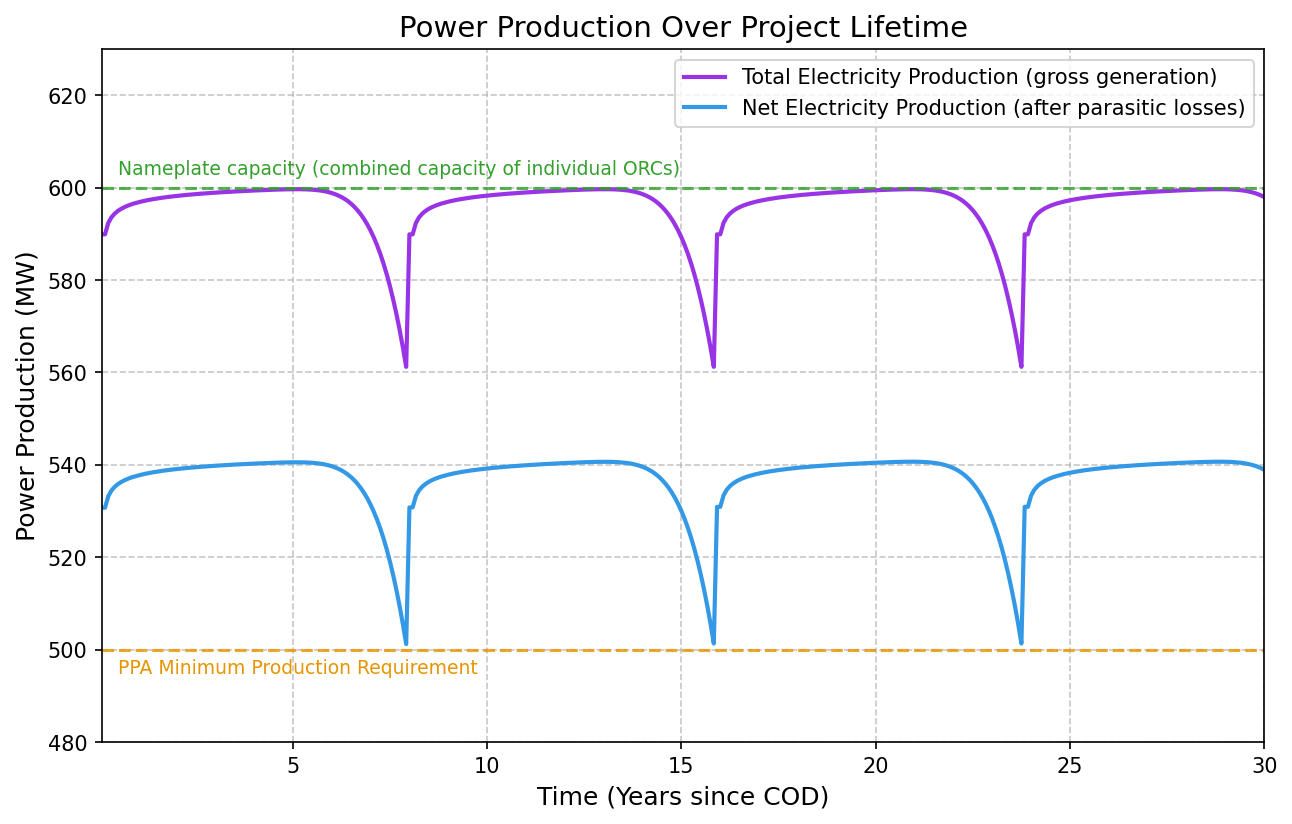
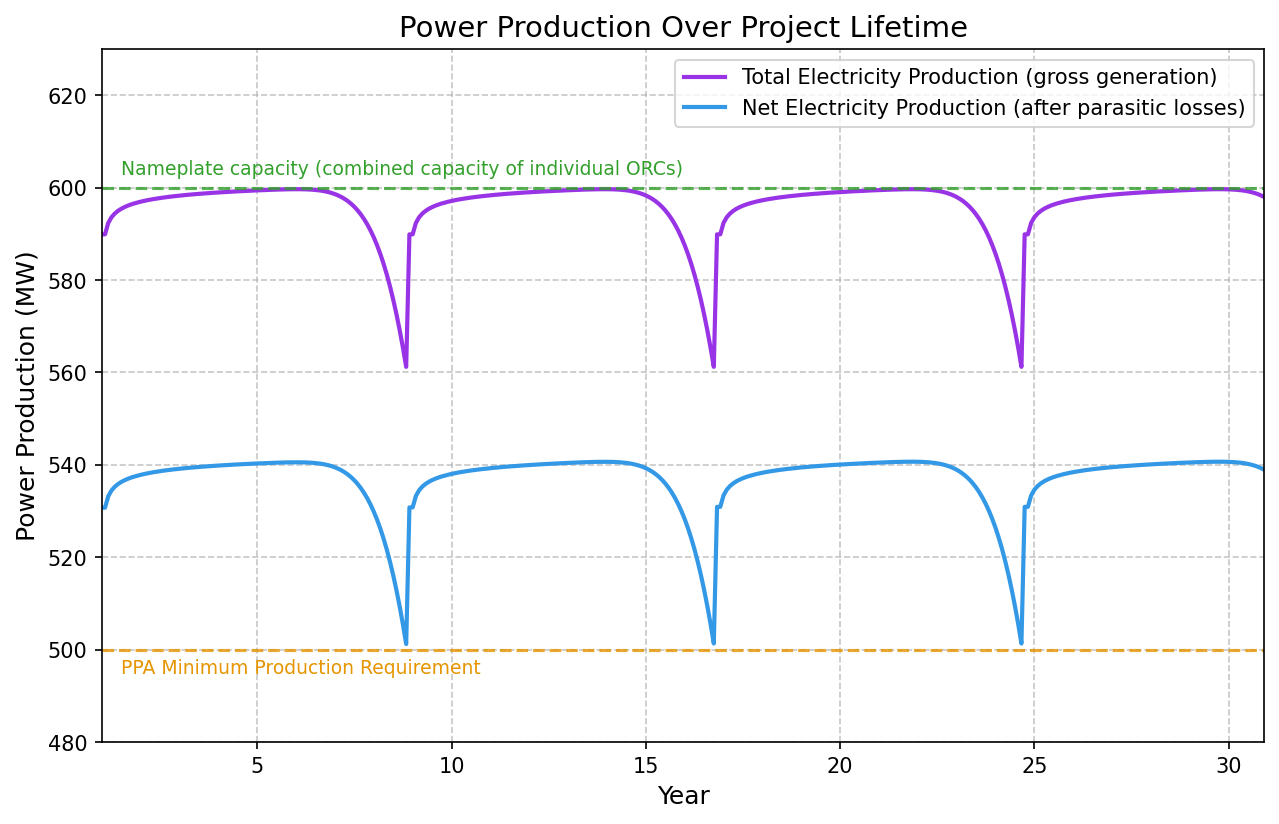
align graph year indexing with cash flow: COD = Year 1

diff --git a/src/geophires_docs/generate_fervo_project_cape_5_graphs.py b/src/geophires_docs/generate_fervo_project_cape_5_graphs.py
@@ -63,7 +63,7 @@ def _get_redrilling_event_indexes(
 
     :param threshold_degc: Temperature increase threshold to detect redrilling (default 1.0°C)
 
-    :return: List of year indexes (0-based, from COD) where redrilling events occur
+    :return: List of cash flow year indexes where redrilling events occur (COD = Year 1)
     """
     temperatures_celsius: list[float] = [
         it.to('degC').magnitude for it in _get_full_production_temperature_profile(input_and_result)
@@ -75,8 +75,8 @@ def _get_redrilling_event_indexes(
     for i in range(1, len(temperatures_celsius)):
         temp_increase = temperatures_celsius[i] - temperatures_celsius[i - 1]
         if temp_increase > threshold_degc:
-            # Convert datapoint index to year index
-            year_index = i // time_steps_per_year
+            # Convert datapoint index to cash flow year index (COD = Year 1)
+            year_index = (i // time_steps_per_year) + 1
             redrilling_indexes.append(year_index)
 
     return redrilling_indexes
@@ -103,8 +103,8 @@ def generate_power_production_graph(
     total_power = np.array([p.magnitude for p in total_generation_profile])
 
     # Generate time values: each datapoint represents 1/time_steps_per_year of a year
-    # Starting from year 1 (first operational year)
-    years = np.array([(i + 1) / time_steps_per_year for i in range(len(profile))])
+    # Cash flow year convention: COD = Year 1, so first datapoint is at year 1
+    years = np.array([1 + i / time_steps_per_year for i in range(len(profile))])
 
     # Create the figure
     fig, ax = plt.subplots(figsize=(10, 6))
@@ -114,7 +114,7 @@ def generate_power_production_graph(
     ax.plot(years, net_power, color='#3399e6', linewidth=2, label='Net Electricity Production (after parasitic losses)')
 
     # Set labels and title
-    ax.set_xlabel('Time (Years since COD)', fontsize=12)
+    ax.set_xlabel('Year', fontsize=12)
     ax.set_ylabel('Power Production (MW)', fontsize=12)
     ax.set_title('Power Production Over Project Lifetime', fontsize=14)
 
@@ -123,8 +123,7 @@ def generate_power_production_graph(
     ax.set_ylim(480, 630)
 
     # Add horizontal reference lines
-    # hline_x = years.max() * 0.98
-    hline_x = 0.5
+    hline_x = 1.5
     ax.axhline(y=500, color='#e69500', linestyle='--', linewidth=1.5, alpha=0.8)
     ax.text(hline_x, 498, 'PPA Minimum Production Requirement', ha='left', va='top', fontsize=9, color='#e69500')
 
@@ -184,8 +183,8 @@ def generate_production_temperature_and_drawdown_graph(
     initial_temp = temperatures_celsius[0]
     max_drawdown_temp = initial_temp * (1 - max_drawdown)
 
-    # Generate time values
-    years = np.array([(i + 1) / time_steps_per_year for i in range(len(temp_profile))])
+    # Generate time values: Cash flow year convention: COD = Year 1
+    years = np.array([1 + i / time_steps_per_year for i in range(len(temp_profile))])
 
     # Colors
     COLOR_TEMPERATURE = '#e63333'
@@ -196,7 +195,7 @@ def generate_production_temperature_and_drawdown_graph(
 
     # Plot temperature
     ax.plot(years, temperatures_celsius, color=COLOR_TEMPERATURE, linewidth=2, label='Production Temperature')
-    ax.set_xlabel('Time (Years since COD)', fontsize=12)
+    ax.set_xlabel('Year', fontsize=12)
     ax.set_ylabel('Production Temperature (°C)', fontsize=12)
     ax.set_xlim(years.min(), years.max())
     ax.set_ylim(195, 205)
